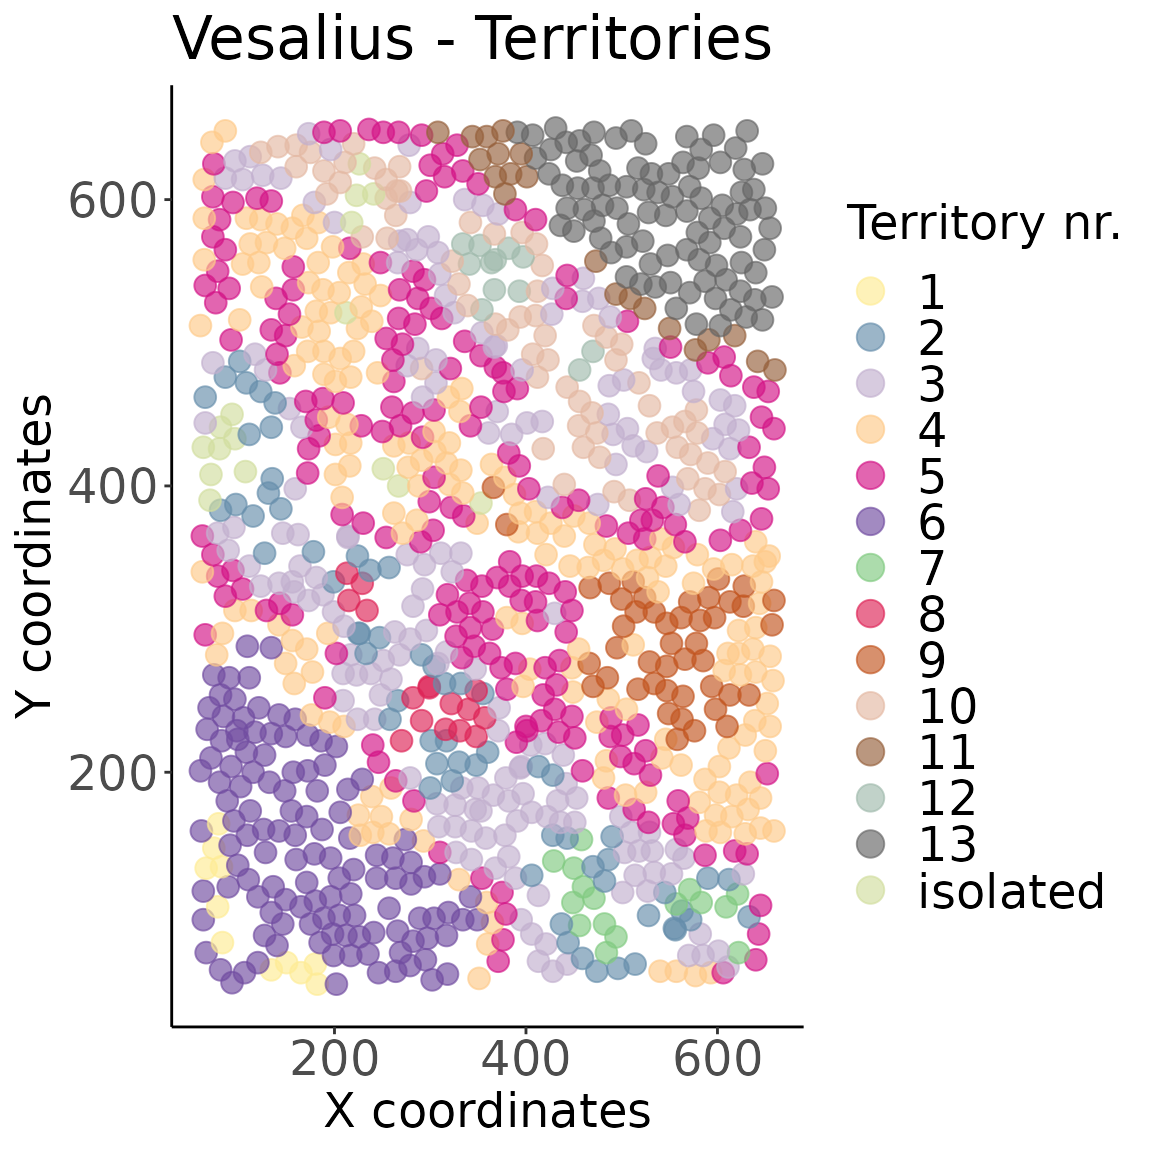
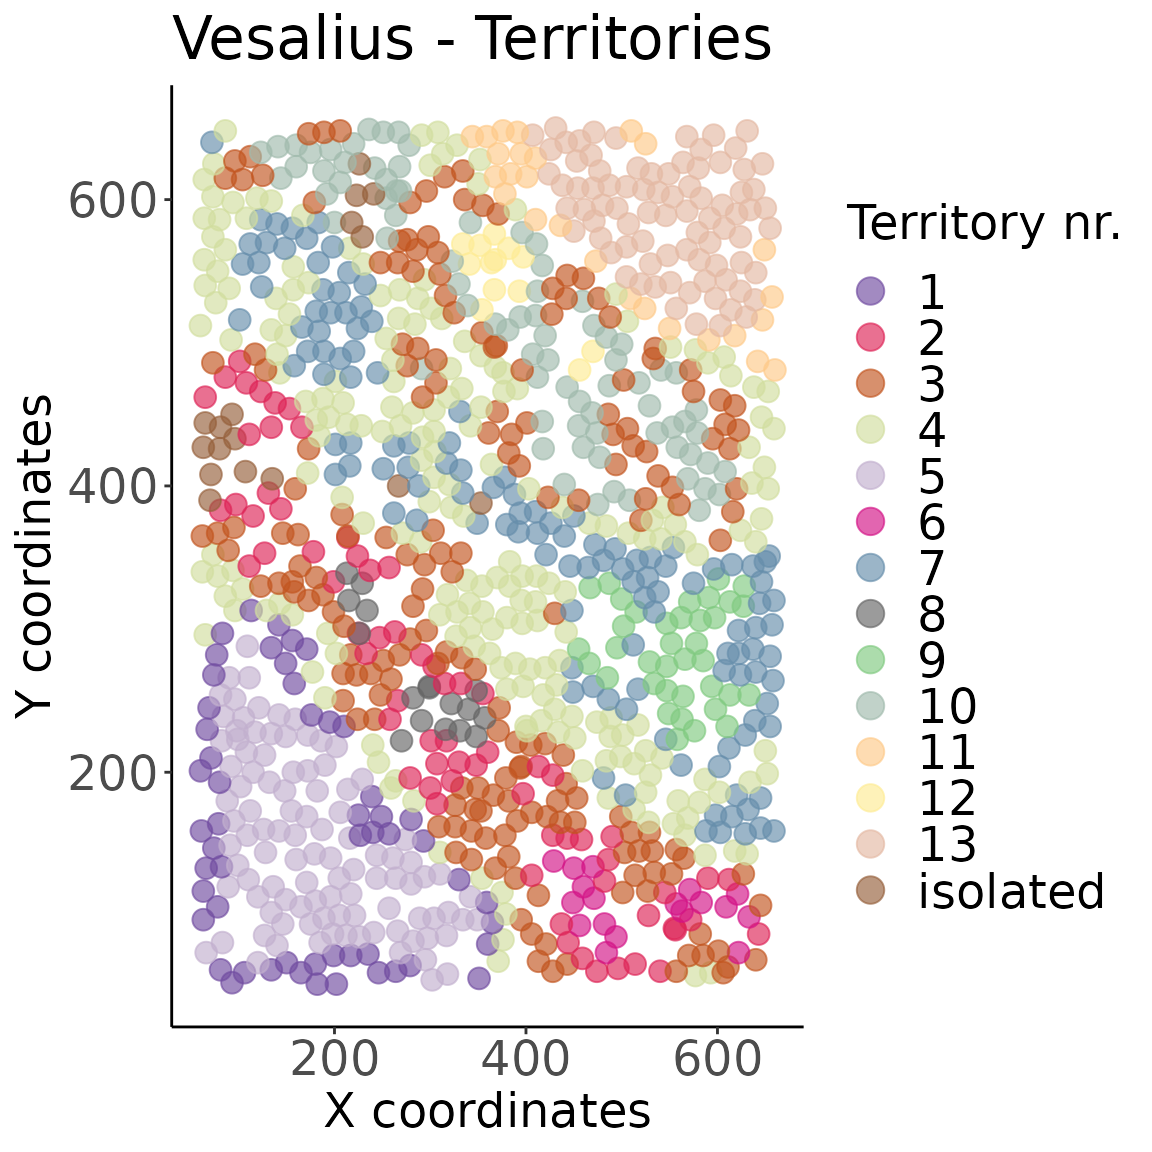
Built site for vesalius: 0.1.0@2dfc6c7

Changed region(s): [[0.1562, 0.0938, 0.6875, 0.875], [0.7188, 0.2188, 0.7812, 0.7812]]

diff --git a/articles/vesalius.html b/articles/vesalius.html
@@ -88,7 +88,7 @@
       <h1 data-toc-skip>Vesalius: Quick Start</h1>
                         <h4 class="author">Patrick C.N. Martin</h4>
             
-            <h4 class="date">2021-11-01</h4>
+            <h4 class="date">2021-11-04</h4>
       
       <small class="dont-index">Source: <a href="https://github.com/patrickCNMartin/Vesalius/blob/main/vignettes/vesalius.Rmd"><code>vignettes/vesalius.Rmd</code></a></small>
       <div class="hidden name"><code>vesalius.Rmd</code></div>
@@ -174,25 +174,24 @@
 <div class="sourceCode" id="cb8"><pre class="downlit sourceCode r">
 <code class="sourceCode R"><span class="co"># Histogram EQ</span>
 <span class="va">vesalius</span> <span class="op">&lt;-</span> <span class="fu"><a href="../reference/equalizeHistogram.html">equalizeHistogram</a></span><span class="op">(</span><span class="va">vesalius</span>,sleft <span class="op">=</span> <span class="fl">2.5</span>, sright<span class="op">=</span><span class="fl">2.5</span>,invert <span class="op">=</span><span class="cn">T</span>,verbose <span class="op">=</span><span class="cn">F</span><span class="op">)</span></code></pre></div>
-<pre><code>## 2021-11-01 11:59:01  Inverting Colours</code></pre>
 <pre><code>## Warning in as.cimg.data.frame(.): Guessing image dimensions from maximum
 ## coordinate values
 
 ## Warning in as.cimg.data.frame(.): Guessing image dimensions from maximum
 ## coordinate values</code></pre>
-<div class="sourceCode" id="cb11"><pre class="downlit sourceCode r">
+<div class="sourceCode" id="cb10"><pre class="downlit sourceCode r">
 <code class="sourceCode R"><span class="co"># Variance regularisation</span>
 <span class="va">vesalius</span> <span class="op">&lt;-</span> <span class="fu"><a href="../reference/regulariseImage.html">regulariseImage</a></span><span class="op">(</span><span class="va">vesalius</span>, lambda <span class="op">=</span> <span class="fl">10</span>,
                             niter <span class="op">=</span> <span class="fl">200</span>, normalise<span class="op">=</span><span class="cn">T</span>,verbose <span class="op">=</span><span class="cn">F</span><span class="op">)</span></code></pre></div>
 <pre><code>## Warning in as.cimg.data.frame(.): Guessing image dimensions from maximum
 ## coordinate values</code></pre>
-<div class="sourceCode" id="cb13"><pre class="downlit sourceCode r">
+<div class="sourceCode" id="cb12"><pre class="downlit sourceCode r">
 <code class="sourceCode R"><span class="co"># Smoothing</span>
 <span class="co"># !!!Optional!!! -</span>
 <span class="va">vesalius</span> <span class="op">&lt;-</span> <span class="fu"><a href="../reference/smoothArray.html">smoothArray</a></span><span class="op">(</span><span class="va">vesalius</span>,method <span class="op">=</span> <span class="st">"box"</span>, box <span class="op">=</span> <span class="fl">1</span>,verbose <span class="op">=</span><span class="cn">F</span><span class="op">)</span></code></pre></div>
 <pre><code>## Warning in as.cimg.data.frame(select(image, c("x", "y", "cc", "value"))):
 ## Guessing image dimensions from maximum coordinate values</code></pre>
-<div class="sourceCode" id="cb15"><pre class="downlit sourceCode r">
+<div class="sourceCode" id="cb14"><pre class="downlit sourceCode r">
 <code class="sourceCode R"><span class="co"># Segmentation</span>
 <span class="co"># This function provides smoothing internally.</span>
 <span class="va">vesalius</span> <span class="op">&lt;-</span> <span class="fu"><a href="../reference/iterativeSegmentation.array.html">iterativeSegmentation.array</a></span><span class="op">(</span><span class="va">vesalius</span>,
@@ -201,7 +200,7 @@
                                         method <span class="op">=</span> <span class="fu"><a href="https://rdrr.io/r/base/c.html">c</a></span><span class="op">(</span><span class="st">"iso"</span>,<span class="st">"median"</span><span class="op">)</span>,
                                         sigma<span class="op">=</span><span class="fl">1.5</span>,
                                         box <span class="op">=</span> <span class="fl">10</span>,
-                                        useCenter <span class="op">=</span> <span class="cn">T</span>,
+                                        useCenter <span class="op">=</span> <span class="cn">F</span>,
                                         invert <span class="op">=</span><span class="cn">T</span>,
                                         verbose <span class="op">=</span><span class="cn">F</span><span class="op">)</span></code></pre></div>
 <pre><code>## Warning in as.cimg.data.frame(select(image, c("x", "y", "cc", "value"))):
@@ -211,7 +210,7 @@
 ## Guessing image dimensions from maximum coordinate values</code></pre>
 <pre><code>## Warning in as.cimg.data.frame(imgCopy): Guessing image dimensions from maximum
 ## coordinate values</code></pre>
-<div class="sourceCode" id="cb18"><pre class="downlit sourceCode r">
+<div class="sourceCode" id="cb17"><pre class="downlit sourceCode r">
 <code class="sourceCode R"><span class="co"># Isolating territories from colour segments</span>
 <span class="va">vesalius</span> <span class="op">&lt;-</span> <span class="fu"><a href="../reference/isolateTerritories.array.html">isolateTerritories.array</a></span><span class="op">(</span><span class="va">vesalius</span>,
                                      captureRadius <span class="op">=</span> <span class="fl">0.1</span>,
@@ -222,7 +221,7 @@
 <h1 class="hasAnchor">
 <a href="#visualisation" class="anchor"></a>Visualisation</h1>
 <p>Sixth, we can visualise the territories.</p>
-<div class="sourceCode" id="cb19"><pre class="downlit sourceCode r">
+<div class="sourceCode" id="cb18"><pre class="downlit sourceCode r">
 <code class="sourceCode R"><span class="co"># Let's have a look!</span>
 <span class="va">imgTerritory</span> <span class="op">&lt;-</span> <span class="fu"><a href="../reference/territoryPlot.html">territoryPlot</a></span><span class="op">(</span><span class="va">vesalius</span>, randomise <span class="op">=</span> <span class="cn">TRUE</span>,cex <span class="op">=</span><span class="fl">15</span> , cex.pt<span class="op">=</span><span class="fl">3.5</span><span class="op">)</span>
 <span class="fu"><a href="https://rdrr.io/r/base/print.html">print</a></span><span class="op">(</span><span class="va">imgTerritory</span><span class="op">)</span></code></pre></div>
@@ -232,26 +231,26 @@
 <h1 class="hasAnchor">
 <a href="#territory-extraction-and-markers" class="anchor"></a>Territory extraction and markers</h1>
 <p>Finally, we can extract territories to run a more in depth analysis. This returns a Seurat object with all selected territories. We can also find differential gene expression between territories.</p>
-<div class="sourceCode" id="cb20"><pre class="downlit sourceCode r">
+<div class="sourceCode" id="cb19"><pre class="downlit sourceCode r">
 <code class="sourceCode R"><span class="co"># extract terriotry from seurat object</span>
 <span class="va">ter</span> <span class="op">&lt;-</span> <span class="fu"><a href="../reference/extractTerritories.html">extractTerritories</a></span><span class="op">(</span><span class="va">vesalius</span>,<span class="va">counts</span>,seedID<span class="op">=</span> <span class="fl">1</span>,verbose <span class="op">=</span><span class="cn">F</span><span class="op">)</span></code></pre></div>
 <pre><code>## Warning in as.cimg.data.frame(.): Guessing image dimensions from maximum
 ## coordinate values</code></pre>
-<div class="sourceCode" id="cb22"><pre class="downlit sourceCode r">
+<div class="sourceCode" id="cb21"><pre class="downlit sourceCode r">
 <code class="sourceCode R"><span class="co"># get all markers related to all territories</span>
 <span class="va">all</span> <span class="op">&lt;-</span> <span class="fu"><a href="../reference/extractAllMarkers.html">extractAllMarkers</a></span><span class="op">(</span><span class="va">vesalius</span>,<span class="va">counts</span>,verbose <span class="op">=</span><span class="cn">F</span><span class="op">)</span>
 
 
 <span class="co"># get markers associated with on or more territories</span>
 <span class="va">one</span> <span class="op">&lt;-</span> <span class="fu"><a href="../reference/extractMarkers.html">extractMarkers</a></span><span class="op">(</span><span class="va">vesalius</span>, <span class="va">counts</span>, seed <span class="op">=</span> <span class="fu"><a href="https://rdrr.io/r/base/c.html">c</a></span><span class="op">(</span><span class="fl">1</span><span class="op">)</span>,verbose <span class="op">=</span><span class="cn">F</span><span class="op">)</span></code></pre></div>
-<div class="sourceCode" id="cb23"><pre class="downlit sourceCode r">
+<div class="sourceCode" id="cb22"><pre class="downlit sourceCode r">
 <code class="sourceCode R"><span class="co"># comparing territories</span>
 <span class="va">two</span> <span class="op">&lt;-</span> <span class="fu"><a href="../reference/extractMarkers.html">extractMarkers</a></span><span class="op">(</span><span class="va">vesalius</span>, <span class="va">counts</span>, seed <span class="op">=</span> <span class="fu"><a href="https://rdrr.io/r/base/c.html">c</a></span><span class="op">(</span><span class="fl">1</span><span class="op">)</span>, query <span class="op">=</span> <span class="fu"><a href="https://rdrr.io/r/base/c.html">c</a></span><span class="op">(</span><span class="fl">2</span>,<span class="fl">3</span><span class="op">)</span>,verbose <span class="op">=</span><span class="cn">F</span><span class="op">)</span></code></pre></div>
 </div>
 <div id="session-info" class="section level1">
 <h1 class="hasAnchor">
 <a href="#session-info" class="anchor"></a>Session Info</h1>
-<div class="sourceCode" id="cb24"><pre class="downlit sourceCode r">
+<div class="sourceCode" id="cb23"><pre class="downlit sourceCode r">
 <code class="sourceCode R"><span class="fu"><a href="https://rdrr.io/r/utils/sessionInfo.html">sessionInfo</a></span><span class="op">(</span><span class="op">)</span></code></pre></div>
 <pre><code>## R version 4.1.2 (2021-11-01)
 ## Platform: x86_64-pc-linux-gnu (64-bit)
@@ -289,7 +288,7 @@
 ##  [34] gtable_0.3.0          leiden_0.3.9          future.apply_1.8.1   
 ##  [37] abind_1.4-5           scales_1.1.1          miniUI_0.1.1.1       
 ##  [40] Rcpp_1.0.7            viridisLite_0.4.0     xtable_1.8-4         
-##  [43] reticulate_1.22       spatstat.core_2.3-0   htmlwidgets_1.5.4    
+##  [43] reticulate_1.22       spatstat.core_2.3-1   htmlwidgets_1.5.4    
 ##  [46] httr_1.4.2            RColorBrewer_1.1-2    ellipsis_0.3.2       
 ##  [49] ica_1.0-2             pkgconfig_2.0.3       farver_2.1.0         
 ##  [52] sass_0.4.0            uwot_0.1.10           deldir_1.0-6         
